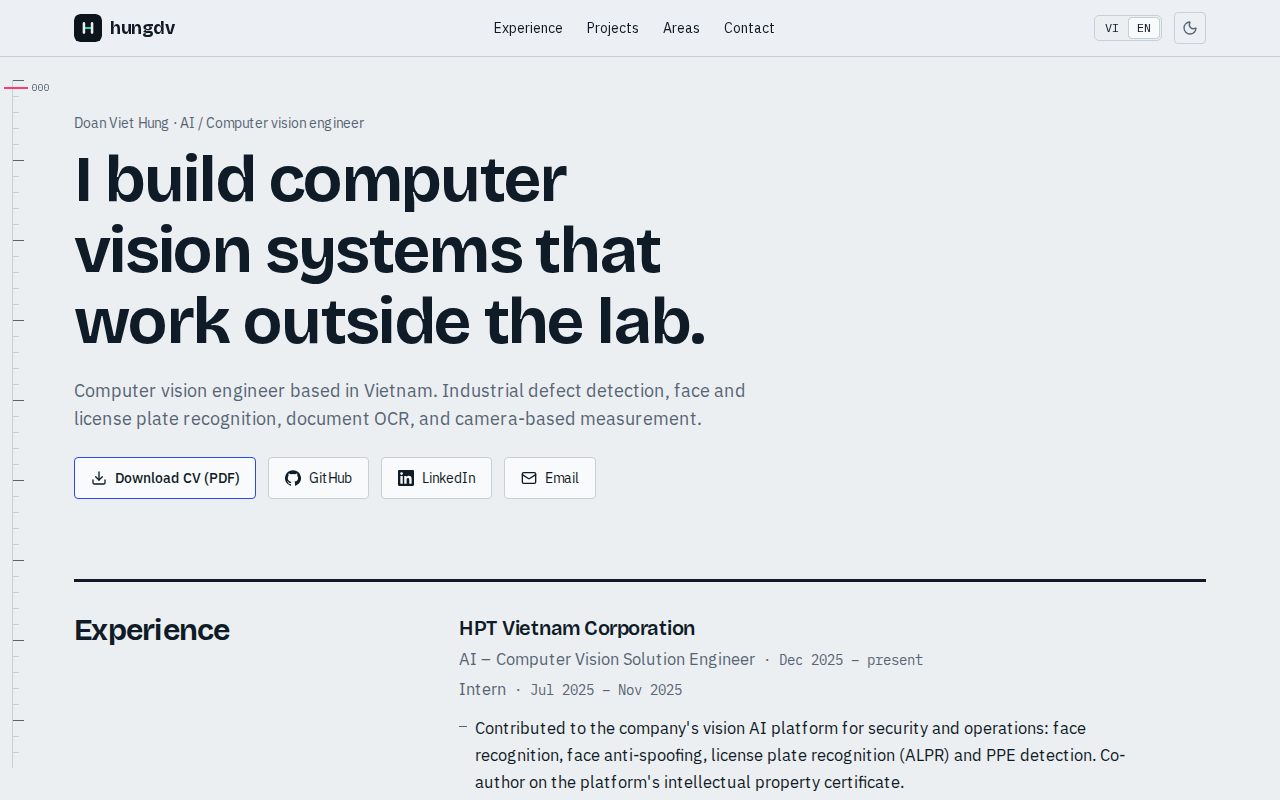
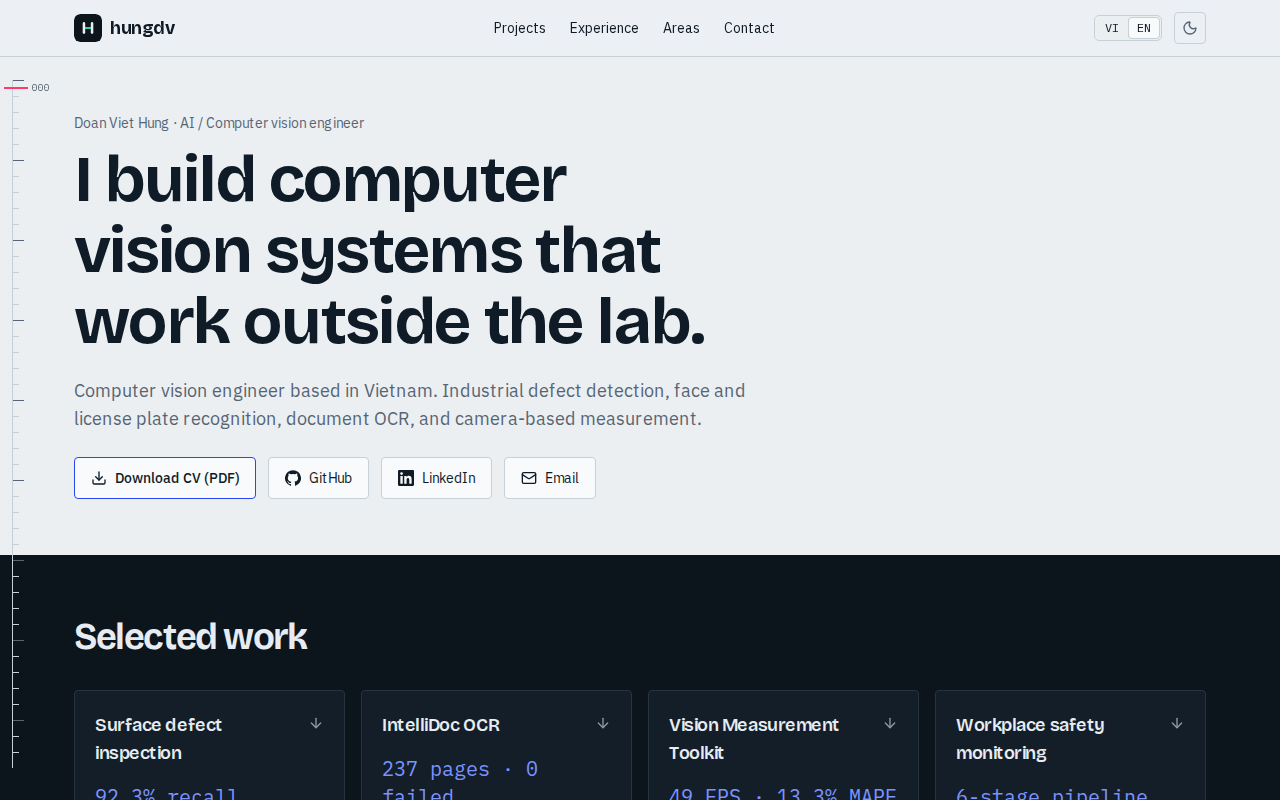
fix progress bar

Changed region(s): [[0.0, 0.6875, 1.0, 1.0], [0.375, 0.0312, 0.5, 0.0625]]

diff --git a/app/[lang]/page.tsx b/app/[lang]/page.tsx
@@ -1,14 +1,16 @@
 import fs from 'node:fs';
 import path from 'node:path';
-import { ArrowUpRight, Download, Mail } from 'lucide-react';
+import { ArrowDown, ArrowUpRight, Download, Mail } from 'lucide-react';
 import { GithubIcon, LinkedinIcon } from '@/components/BrandIcons';
 import { getContent, isLang, type Lang } from '@/lib/i18n';
 import { site } from '@/content/site';
 import { projects } from '@/content/projects';
 import { HeaderControls } from '@/components/HeaderControls';
-import { Ruler } from '@/components/Ruler';
+import { ScrollProgress } from '@/components/ScrollProgress';
 import { ProjectSection } from '@/components/ProjectSection';
 import { BevLab, FlowLab, SafetyLab, TileLab } from '@/components/labs';
+
+const wrap = 'mx-auto max-w-[1180px] px-4 sm:px-6';
 
 const cvExists = (file: string) => fs.existsSync(path.join(process.cwd(), 'public', 'cv', file));
 
@@ -47,7 +49,6 @@ export default async function Page({ params }: { params: Promise<{ lang: string 
       >
         {c.nav.skip}
       </a>
-      <Ruler />
 
       <header className="sticky top-0 z-40 border-b border-line bg-[color-mix(in_srgb,var(--bg)_88%,transparent)] backdrop-blur">
         <div className="mx-auto flex h-14 max-w-[1180px] items-center justify-between gap-4 px-4 sm:px-6">
@@ -57,18 +58,19 @@ export default async function Page({ params }: { params: Promise<{ lang: string 
             hungdv
           </a>
           <nav aria-label="Main" className="hidden sm:flex items-center gap-6 text-sm">
-            <a href="#experience" className="text-ink-2 hover:text-ink">{c.nav.experience}</a>
             <a href="#projects" className="text-ink-2 hover:text-ink">{c.nav.projects}</a>
+            <a href="#experience" className="text-ink-2 hover:text-ink">{c.nav.experience}</a>
             <a href="#areas" className="text-ink-2 hover:text-ink">{c.nav.areas}</a>
             <a href="#contact" className="text-ink-2 hover:text-ink">{c.nav.contact}</a>
           </nav>
           <HeaderControls lang={lang} labels={{ toLight: c.nav.toLight, toDark: c.nav.toDark, otherLang: c.nav.otherLang }} />
         </div>
+        <ScrollProgress />
       </header>
 
-      <main id="main" className="mx-auto max-w-[1180px] px-4 sm:px-6">
+      <main id="main">
         {/* ---- hero ---- */}
-        <section id="top" data-anchor aria-labelledby="hero-title" className="pt-10 sm:pt-14 pb-10">
+        <section id="top" data-anchor aria-labelledby="hero-title" className={`${wrap} pt-10 sm:pt-14 pb-14`}>
           <p className="text-sm text-ink-2">
             {c.name} · {c.role}
           </p>
@@ -105,8 +107,35 @@ export default async function Page({ params }: { params: Promise<{ lang: string 
           </ul>
         </section>
 
+        {/* ---- project overview (dark band) ---- */}
+        <section id="projects" data-anchor aria-labelledby="glance-title" className="band py-12 sm:py-16">
+          <div className={wrap}>
+            <h2 id="glance-title" className="text-3xl sm:text-4xl">
+              {c.glanceTitle}
+            </h2>
+            <ul className="mt-8 grid gap-4 sm:grid-cols-2 xl:grid-cols-4">
+              {projects.map((p) => {
+                const g = c.projects[p.id].glance;
+                return (
+                  <li key={p.id}>
+                    <a href={`#${p.anchor}`} className="group flex h-full flex-col rounded-[4px] border border-line bg-surface p-5 hover:border-accent">
+                      <span className="flex items-start justify-between gap-2 font-display text-lg font-semibold tracking-tight">
+                        {g.name}
+                        <ArrowDown size={16} aria-hidden className="mt-1 shrink-0 text-ink-2 transition-transform group-hover:translate-y-0.5 group-hover:text-accent" />
+                      </span>
+                      {(p.id !== 'linescan' || site.showLineScanMetrics) && <span className="mono mt-4 text-xl xl:text-lg text-accent">{g.stat}</span>}
+                      <span className="mt-2 text-[15px] text-ink-2">{g.line}</span>
+                    </a>
+                  </li>
+                );
+              })}
+            </ul>
+          </div>
+        </section>
+
+        <div className={wrap}>
         {/* ---- experience ---- */}
-        <section id="experience" data-anchor aria-labelledby="exp-title" className="mt-10 border-t-[3px] border-ink pt-8 grid gap-6 lg:grid-cols-12">
+        <section id="experience" data-anchor aria-labelledby="exp-title" className="pt-16 grid gap-6 lg:grid-cols-12">
           <h2 id="exp-title" className="text-3xl lg:col-span-4">
             {c.experience.title}
           </h2>
@@ -135,7 +164,7 @@ export default async function Page({ params }: { params: Promise<{ lang: string 
         </section>
 
         {/* ---- projects ---- */}
-        <section id="projects" aria-labelledby="projects-title" className="pt-20">
+        <section id="project-details" aria-labelledby="projects-title" className="pt-20">
           <h2 id="projects-title" className="text-4xl sm:text-5xl">
             {c.projectsTitle}
           </h2>
@@ -271,10 +300,11 @@ export default async function Page({ params }: { params: Promise<{ lang: string 
             </ul>
           </div>
         </section>
+        </div>
       </main>
 
       <footer className="border-t border-line">
-        <div className="mx-auto max-w-[1180px] px-4 sm:px-6 py-8 grid gap-2 text-xs text-ink-2 sm:grid-cols-[1fr_auto]">
+        <div className={`${wrap} py-8 grid gap-2 text-xs text-ink-2 sm:grid-cols-[1fr_auto]`}>
           <div className="space-y-1 max-w-[80ch]">
             <p>{c.footer.privacy}</p>
             <p>{c.footer.synthetic}</p>

diff --git a/content/vi.ts b/content/vi.ts
@@ -23,7 +23,8 @@ export const vi: Content = {
     title: 'Mình xây hệ thống thị giác máy tính chạy được ngoài đời thật.',
     sub: 'Kỹ sư thị giác máy tính tại Việt Nam. Phát hiện lỗi công nghiệp, nhận dạng khuôn mặt và biển số, đọc tài liệu, đo đạc bằng camera.',
   },
-  projectsTitle: 'Dự án',
+  glanceTitle: 'Dự án tiêu biểu',
+  projectsTitle: 'Chi tiết dự án',
   labels: {
     problem: 'Bài toán',
     approach: 'Cách làm',
@@ -42,6 +43,7 @@ export const vi: Content = {
   projects: {
     linescan: {
       title: 'Kiểm tra lỗi bề mặt bằng camera line-scan',
+      glance: { name: 'Kiểm tra lỗi bề mặt', stat: 'Recall 92,3%', line: 'Học từ 10 ảnh đạt chuẩn; báo nhầm 2,8%, 43 ms mỗi ảnh.' },
       lede: 'Hệ thống phát hiện bất thường chỉ cần học từ ảnh đạt chuẩn, không cần ảnh lỗi. Mỗi ảnh trả về OK hoặc NOK, bản đồ bất thường, mask và khung quanh vùng nghi lỗi.',
       problem:
         'Lỗi quá hiếm và đa dạng để gom ảnh huấn luyện, trong khi dây chuyền cần quyết định cho mỗi ảnh trong khoảng 50 ms.',
@@ -75,6 +77,7 @@ export const vi: Content = {
     },
     ocr: {
       title: 'IntelliDoc OCR: số hóa văn bản hành chính tiếng Việt',
+      glance: { name: 'IntelliDoc OCR', stat: '237 trang · 0 lỗi', line: 'Từ PDF đến từng trường đã rà soát, có truy vết, cho văn bản hành chính.' },
       lede: 'Hệ thống nhận PDF, trích xuất nội dung bằng OCR, để người rà soát sửa và phê duyệt từng trường, rồi lưu bằng chứng để kiểm tra lại về sau.',
       problem:
         'Tài liệu có nhiều bố cục khác nhau, và khi OCR sai thì người sửa phải để lại dấu vết truy được.',
@@ -98,6 +101,7 @@ export const vi: Content = {
     },
     measure: {
       title: 'Vision Measurement Toolkit: đo khoảng cách và tốc độ từ camera',
+      glance: { name: 'Vision Measurement Toolkit', stat: '49 FPS · MAPE 13,3%', line: 'Đo khoảng cách và tốc độ xe từ một camera. Mã nguồn mở.' },
       lede: 'Bộ công cụ gộp hiệu chuẩn camera, đo khoảng cách trên mặt phẳng, đo 3D bằng ước lượng độ sâu từ một camera và đo tốc độ xe theo làn.',
       problem:
         'Muốn ra mét từ ảnh 2D thì phải biết một pixel ứng với bao nhiêu mét, và con số đó thay đổi theo khoảng cách tới camera.',
@@ -117,6 +121,7 @@ export const vi: Content = {
     },
     safety: {
       title: 'Giám sát an toàn lao động bằng pipeline nhiều tầng',
+      glance: { name: 'Giám sát an toàn lao động', stat: 'Pipeline 6 tầng', line: 'Người, mũ, áo, khẩu trang, găng tay và dùng điện thoại trên video trực tiếp.' },
       lede: 'Pipeline sáu tầng phát hiện và theo dõi người, kiểm tra mũ, áo phản quang, khẩu trang, găng tay và các hành vi như dùng điện thoại trên luồng video realtime.',
       problem:
         'Mũ và áo thấy được trên toàn khung hình, nhưng khẩu trang và găng tay cần ảnh cắt vùng mặt, vùng tay; chạy mọi model trên cả khung hình thì vừa chậm vừa nhiễu.',

diff --git a/content/en.ts b/content/en.ts
@@ -23,7 +23,8 @@ export const en: Content = {
     title: 'I build computer vision systems that work outside the lab.',
     sub: 'Computer vision engineer based in Vietnam. Industrial defect detection, face and license plate recognition, document OCR, and camera-based measurement.',
   },
-  projectsTitle: 'Projects',
+  glanceTitle: 'Selected work',
+  projectsTitle: 'Project details',
   labels: {
     problem: 'Problem',
     approach: 'Approach',
@@ -42,6 +43,7 @@ export const en: Content = {
   projects: {
     linescan: {
       title: 'Surface defect inspection with a line-scan camera',
+      glance: { name: 'Surface defect inspection', stat: '92.3% recall', line: 'Learns from 10 good images; 2.8% false alarms at 43 ms per image.' },
       lede: 'The anomaly detector learns only from good samples and needs no defect images. Each image returns OK or NOK, an anomaly map, a mask and boxes around suspect regions.',
       problem:
         'Defects are too rare and varied to collect for training, and the line needs a decision for every image within about 50 ms.',
@@ -75,6 +77,7 @@ export const en: Content = {
     },
     ocr: {
       title: 'IntelliDoc OCR: digitizing Vietnamese administrative documents',
+      glance: { name: 'IntelliDoc OCR', stat: '237 pages · 0 failed', line: 'From PDF to reviewed, auditable fields for Vietnamese administrative records.' },
       lede: 'The system takes PDFs, extracts content with OCR, lets a reviewer correct and approve each field, and keeps evidence so results can be audited later.',
       problem:
         'Documents come in many layouts, and when OCR is wrong a person must fix it in a way that stays traceable.',
@@ -98,6 +101,7 @@ export const en: Content = {
     },
     measure: {
       title: 'Vision Measurement Toolkit: distance and speed from a camera',
+      glance: { name: 'Vision Measurement Toolkit', stat: '49 FPS · 13.3% MAPE', line: 'Distance and vehicle speed from a single camera. Open source.' },
       lede: 'A toolkit combining camera calibration, planar distance, 3D measurement from single-camera depth estimation, and lane-based vehicle speed.',
       problem:
         'Getting metres out of a 2D image means knowing how many metres one pixel covers, and that number changes with distance from the camera.',
@@ -117,6 +121,7 @@ export const en: Content = {
     },
     safety: {
       title: 'Workplace safety monitoring with a multi-stage pipeline',
+      glance: { name: 'Workplace safety monitoring', stat: '6-stage pipeline', line: 'People, helmets, vests, masks, gloves and phone use on live video.' },
       lede: 'A six-stage pipeline detects and tracks people, then checks helmets, vests, face masks, gloves and behaviours such as phone use on a realtime video stream.',
       problem:
         'Helmets and vests show in the full frame, but masks and gloves need face and hand crops; running every model on the full frame is slow and noisy.',

diff --git a/components/ScrollProgress.tsx b/components/ScrollProgress.tsx
@@ -1,0 +1,31 @@
+'use client';
+
+import { useEffect, useRef } from 'react';
+
+/** Thin accent bar along the bottom of the sticky header; grows with scroll progress. */
+export function ScrollProgress() {
+  const bar = useRef<HTMLDivElement>(null);
+
+  useEffect(() => {
+    let raf = 0;
+    const update = () => {
+      raf = 0;
+      const max = document.documentElement.scrollHeight - window.innerHeight;
+      const p = max > 0 ? Math.min(1, Math.max(0, window.scrollY / max)) : 0;
+      if (bar.current) bar.current.style.transform = `scaleX(${p})`;
+    };
+    const onScroll = () => {
+      if (!raf) raf = requestAnimationFrame(update);
+    };
+    update();
+    window.addEventListener('scroll', onScroll, { passive: true });
+    window.addEventListener('resize', onScroll);
+    return () => {
+      window.removeEventListener('scroll', onScroll);
+      window.removeEventListener('resize', onScroll);
+      cancelAnimationFrame(raf);
+    };
+  }, []);
+
+  return <div ref={bar} aria-hidden className="absolute inset-x-0 -bottom-px h-0.5 origin-left bg-accent" style={{ transform: 'scaleX(0)' }} />;
+}

diff --git a/app/globals.css b/app/globals.css
@@ -204,3 +204,20 @@ a { color: inherit; }
   to { opacity: 1; transform: none; }
 }
 .lightup { animation: lightup 0.45s ease-out both; }
+
+/* Dark band: re-scopes the dark tokens so every utility inside renders dark. */
+.band {
+  --bg: #0c141c;
+  --surface: #131e29;
+  --ink: #e6ecf1;
+  --ink-2: #8c9caa;
+  --line: #263442;
+  --accent: #7c93ff;
+  background: var(--bg);
+  color: var(--ink);
+}
+/* in dark mode the page is already dark, so lift the band one step */
+:root[data-theme='dark'] .band { --bg: #131e29; --surface: #1a2734; }
+@media (prefers-color-scheme: dark) {
+  :root:not([data-theme]) .band { --bg: #131e29; --surface: #1a2734; }
+}

diff --git a/tests/site.spec.ts b/tests/site.spec.ts
@@ -100,3 +100,12 @@ test('hero links and folded approach details', async ({ page }) => {
   await more.locator('summary').click();
   await expect(more.getByText(/blocks\.4/)).toBeVisible();
 });
+
+test('overview cards jump to each project', async ({ page }) => {
+  await page.goto('/en/');
+  const cards = page.locator('#projects a');
+  await expect(cards).toHaveCount(4);
+  await cards.filter({ hasText: 'IntelliDoc OCR' }).click();
+  await expect(page).toHaveURL(/#intellidoc-ocr$/);
+  await expect(page.locator('#intellidoc-ocr-title')).toBeInViewport();
+});

diff --git a/content/types.ts b/content/types.ts
@@ -12,6 +12,8 @@ export interface Metric {
 
 export interface ProjectText {
   title: string;
+  /** Overview card: short name, one headline figure, one line. */
+  glance: { name: string; stat: string; line: string };
   lede: string;
   problem: string;
   approach: string[];
@@ -109,6 +111,7 @@ export interface Content {
     otherLang: string;
   };
   hero: HeroText;
+  glanceTitle: string;
   projectsTitle: string;
   labels: {
     problem: string;
